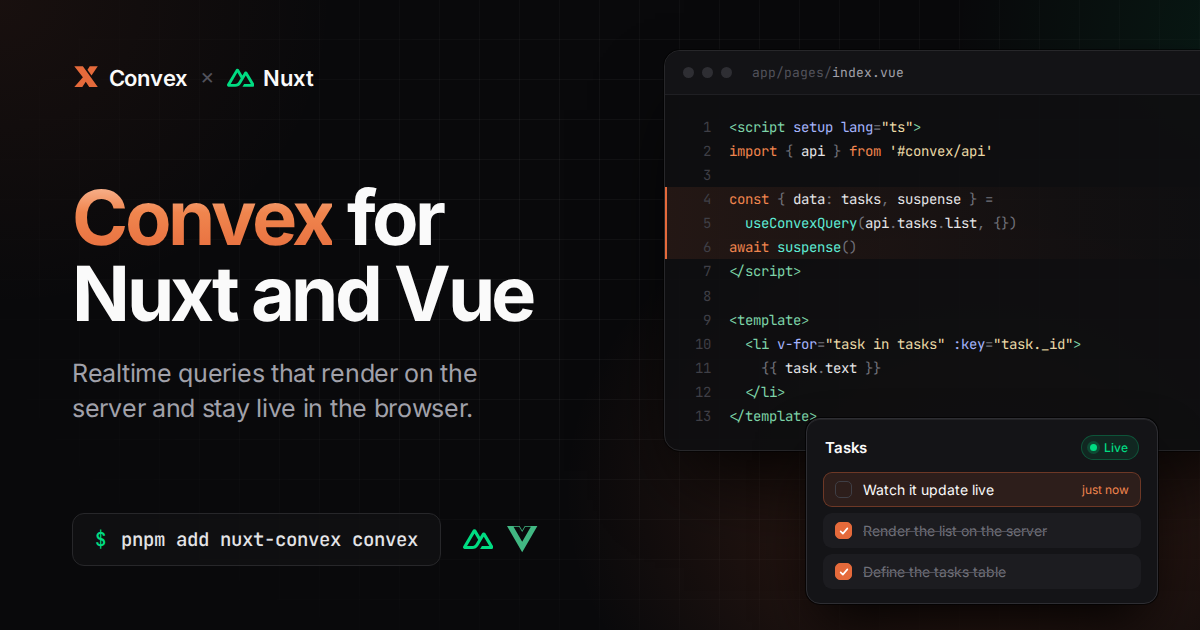
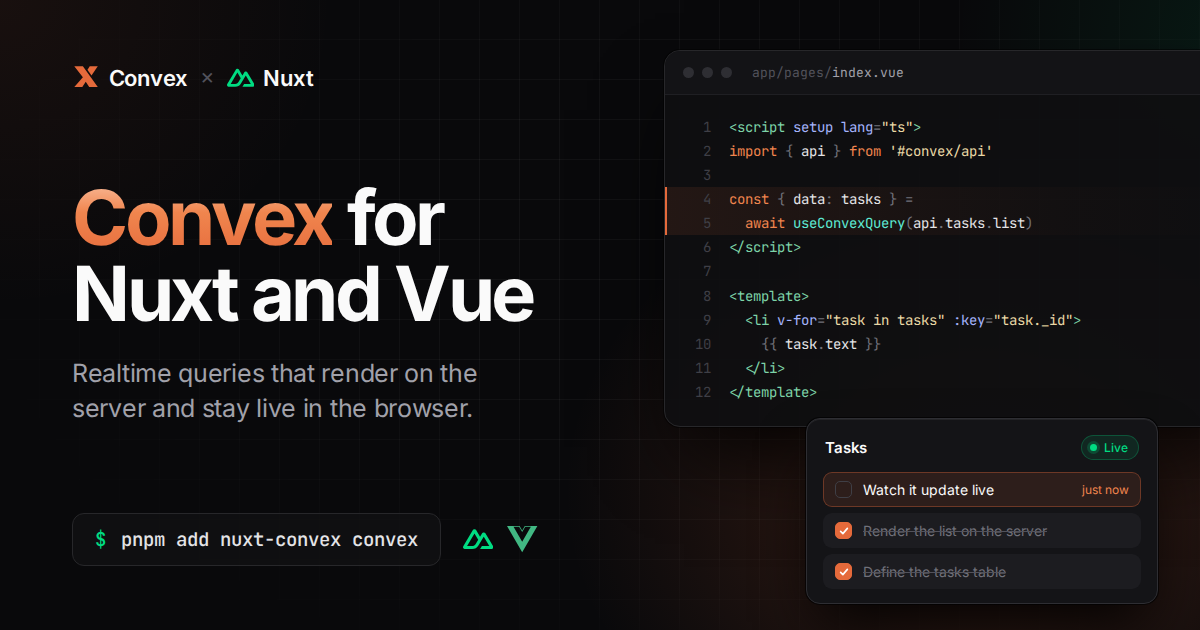
feat(vue): make query args optional for queries that take none
Like useQuery in convex/react: `await useConvexQuery(api.tasks.list)`.
The README, package READMEs, banner and Open Graph image use the shorter form.

Changed region(s): [[0.6167, 0.3016, 0.8942, 0.6937]]

diff --git a/packages/vue/src/useConvexQuery.ts b/packages/vue/src/useConvexQuery.ts
@@ -6,6 +6,8 @@ import { createQueryResource } from './internal/query'
 import { useConvexRuntimeContext } from './internal/useConvexRuntimeContext'
 
 type QueryReference = FunctionReference<'query'>
+// convex/server's EmptyObject isn't exported
+type EmptyObject = Record<string, never>
 
 /** Errors are plain `Error`s, or `ConvexError`s carrying the data thrown by your function. See `isConvexError`. */
 export type ConvexQueryError = Error | ConvexError<Value>
@@ -29,6 +31,11 @@ export interface UseConvexQueryReturn<Query extends QueryReference> {
   suspense: () => Promise<FunctionReturnType<Query> | undefined>
 }
 
+/** Args are optional when the query takes none, like `useQuery` in `convex/react`. */
+export type UseConvexQueryArgs<Query extends QueryReference> = FunctionArgs<Query> extends EmptyObject
+  ? [args?: MaybeRefOrGetter<EmptyObject | 'skip'>, options?: UseConvexQueryOptions]
+  : [args: MaybeRefOrGetter<FunctionArgs<Query> | 'skip'>, options?: UseConvexQueryOptions]
+
 /**
  * Subscribes to a Convex query. Await the return value to wait for the first
  * result: on the server that fetches over HTTP, on the client it resolves
@@ -36,8 +43,7 @@ export interface UseConvexQueryReturn<Query extends QueryReference> {
  */
 export function useConvexQuery<Query extends QueryReference>(
   query: MaybeRefOrGetter<Query>,
-  args: MaybeRefOrGetter<FunctionArgs<Query> | 'skip'>,
-  options?: UseConvexQueryOptions,
+  ...[args, options]: UseConvexQueryArgs<Query>
 ): UseConvexQueryReturn<Query> & PromiseLike<UseConvexQueryReturn<Query>> {
-  return createQueryResource(useConvexRuntimeContext(), query, args, options)
+  return createQueryResource(useConvexRuntimeContext(), query, args as MaybeRefOrGetter<Record<string, unknown> | 'skip' | undefined>, options)
 }

diff --git a/docs/scripts/og.ts b/docs/scripts/og.ts
@@ -26,9 +26,8 @@ const code = [
   '«t|<script» «a|setup» «a|lang»«p|=»«s|"ts"»«t|>»',
   '«k|import» «p|{» api «p|}» «k|from» «s|\'#convex/api\'»',
   '',
-  '«k|const» «p|{» data«p|:» tasks«p|,» suspense «p|}» «p|=»',
-  '  «f|useConvexQuery»«p|(»api«p|.»tasks«p|.»list«p|,» «p|{})»',
-  '«k|await» «f|suspense»«p|()»',
+  '«k|const» «p|{» data«p|:» tasks «p|}» «p|=»',
+  '  «k|await» «f|useConvexQuery»«p|(»api«p|.»tasks«p|.»list«p|)»',
   '«t|</script>»',
   '',
   '«t|<template>»',
@@ -136,7 +135,7 @@ p b{color:#e4e4e7;font-weight:500}
 .line span{white-space:pre}
 .line::before{content:counter(n);counter-increment:n;width:46px;padding-right:18px;text-align:right;color:#3f3f46;flex:none}
 .code{counter-reset:n}
-.line:nth-child(4),.line:nth-child(5),.line:nth-child(6){background:linear-gradient(90deg,rgb(229 106 59/.10),rgb(229 106 59/.02) 70%,transparent);box-shadow:inset 2px 0 0 #e56a3b}
+.line:nth-child(4),.line:nth-child(5){background:linear-gradient(90deg,rgb(229 106 59/.10),rgb(229 106 59/.02) 70%,transparent);box-shadow:inset 2px 0 0 #e56a3b}
 .k{color:#f0854e}.s{color:#e9d8a6}.f{color:#5eead4}.t{color:#7dd3a8}.a{color:#a5b4fc}.p{color:#71717a}
 
 .list{position:absolute;left:${l.list.left}px;top:${l.list.top}px;width:${l.list.width}px;border:1px solid #2e2e33;border-radius:14px;background:#141417;padding:16px 16px 14px;

diff --git a/packages/nuxt/src/runtime/components/ConvexQuery.ts b/packages/nuxt/src/runtime/components/ConvexQuery.ts
@@ -1,6 +1,6 @@
 import type { FunctionArgs, FunctionReference, FunctionReturnType } from 'convex/server'
-import type { PropType, SetupContext, SlotsType, VNodeChild } from 'vue'
-import type { ConvexQueryError, UseConvexQueryOptions } from 'vue-convex'
+import type { MaybeRefOrGetter, PropType, SetupContext, SlotsType, VNodeChild } from 'vue'
+import type { ConvexQueryError, UseConvexQueryArgs, UseConvexQueryOptions } from 'vue-convex'
 import { defineComponent } from 'vue'
 import { useConvexQuery } from '#convex'
 
@@ -27,7 +27,8 @@ function isEmpty(value: unknown): boolean {
 }
 
 export default defineComponent(<Query extends QueryReference>(props: ConvexQueryProps<Query>, { slots }: SetupContext<Record<never, never>, ConvexQuerySlots>) => {
-  const state = useConvexQuery(() => props.query, () => props.args ?? ({} as FunctionArgs<Query>), props.options)
+  const args = (() => props.args ?? {}) as MaybeRefOrGetter<FunctionArgs<Query> | 'skip'>
+  const state = useConvexQuery(() => props.query, ...([args, props.options] as UseConvexQueryArgs<Query>))
 
   const render = (): VNodeChild => {
     if (state.isPending.value)

diff --git a/packages/vue/test/query.test.ts b/packages/vue/test/query.test.ts
@@ -1,3 +1,4 @@
+import { makeFunctionReference } from 'convex/server'
 import { ConvexError } from 'convex/values'
 import { afterEach, beforeEach, describe, expect, it, vi } from 'vitest'
 import { computed, nextTick, ref } from 'vue'
@@ -47,6 +48,21 @@ describe('useConvexQuery', () => {
     expect(isConvexError(state.error.value, 'NOT_FOUND')).toBe(true)
     expect(isConvexError(state.error.value, 'OTHER')).toBe(false)
 
+    harness.stop()
+  })
+
+  it('takes no args for a query without any', () => {
+    const harness = createHarness({ options: { url } })
+    const client = getLastRealtimeClient()
+    const noArgsRef = makeFunctionReference<'query', Record<string, never>, number>('tasks:count')
+    const state = harness.run(() => useConvexQuery(noArgsRef))
+
+    expect(client.listeners[0]!.args).toEqual({})
+    client.listeners[0]!.onResult(3)
+    expect(state.data.value).toBe(3)
+
+    // @ts-expect-error a query with args still requires them
+    harness.run(() => useConvexQuery(queryRef))
     harness.stop()
   })
 

diff --git a/packages/vue/src/index.ts b/packages/vue/src/index.ts
@@ -18,4 +18,4 @@ export type { UseConvexPaginatedQueryOptions, UseConvexPaginatedQueryReturn } fr
 export { useConvexQueries } from './useConvexQueries'
 export type { QueryEntry, UseConvexQueriesReturn } from './useConvexQueries'
 export { useConvexQuery } from './useConvexQuery'
-export type { ConvexQueryError, UseConvexQueryOptions, UseConvexQueryReturn } from './useConvexQuery'
+export type { ConvexQueryError, UseConvexQueryArgs, UseConvexQueryOptions, UseConvexQueryReturn } from './useConvexQuery'

diff --git a/README.md b/README.md
@@ -71,8 +71,8 @@ Use it in a page. `useConvexQuery` and `useConvexMutation` are auto-imported:
 <script setup lang="ts">
 import { api } from '#convex/api'
 
-const { data: tasks, suspense } = useConvexQuery(api.tasks.list, {})
-await suspense() // fetch during SSR, then stay subscribed in the browser
+// fetched during SSR, then kept live over the WebSocket
+const { data: tasks } = await useConvexQuery(api.tasks.list)
 
 const { mutate: addTask, isPending } = useConvexMutation(api.tasks.add)
 const text = ref('')
@@ -123,7 +123,7 @@ createApp(App)
 import { useConvexQuery } from 'vue-convex'
 import { api } from '../convex/_generated/api'
 
-const { data: tasks } = useConvexQuery(api.tasks.list, {})
+const { data: tasks } = useConvexQuery(api.tasks.list)
 </script>
 ```
 
@@ -131,7 +131,7 @@ const { data: tasks } = useConvexQuery(api.tasks.list, {})
 
 Both packages:
 
-- `useConvexQuery` returns typed `data`, `error`, and `isPending` refs. Arguments can be refs or getters, and `'skip'` pauses the query. `suspense()` fetches over HTTP during SSR, and the browser then subscribes over WebSocket.
+- `useConvexQuery` returns typed `data`, `error` and `status` refs. Arguments can be refs or getters, and `'skip'` pauses the query. Awaiting it fetches during SSR, the result travels in the page payload, and the browser picks up from there over the WebSocket without fetching again.
 - `useConvexQueries` subscribes to a record of queries at once.
 - `useConvexMutation` returns `mutate` and `useConvexAction` returns `execute`, each with `error` and `isPending`. Mutations accept Convex optimistic updates.
 - `useConvexPaginatedQuery` loads pages on the client, with `insertAtTop`, `insertAtPosition`, `insertAtBottomIfLoaded`, and `optimisticallyUpdateValueInPaginatedQuery` for optimistic updates.

diff --git a/packages/nuxt/README.md b/packages/nuxt/README.md
@@ -27,8 +27,7 @@ Run `npx convex dev` to generate `convex/_generated/`, and set `CONVEX_URL` in `
 <script setup lang="ts">
 import { api } from '#convex/api'
 
-const { data: tasks, suspense } = useConvexQuery(api.tasks.list, {})
-await suspense()
+const { data: tasks } = await useConvexQuery(api.tasks.list)
 
 const { mutate: addTask } = useConvexMutation(api.tasks.add)
 </script>

diff --git a/packages/vue/README.md b/packages/vue/README.md
@@ -30,7 +30,7 @@ createApp(App)
 import { useConvexMutation, useConvexQuery } from 'vue-convex'
 import { api } from '../convex/_generated/api'
 
-const { data: tasks } = useConvexQuery(api.tasks.list, {})
+const { data: tasks } = useConvexQuery(api.tasks.list)
 const { mutate: addTask } = useConvexMutation(api.tasks.add)
 </script>
 
